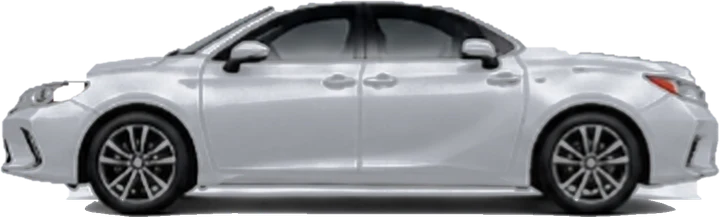
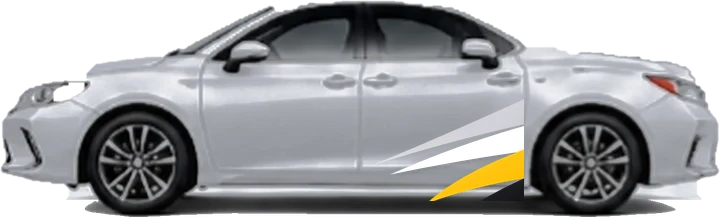
Машина сүрөттөрү: арткы эшикте бренд полосалары (11 түс)
Claude-Session: https://claude.ai/code/session_01QqaFd74dCabiCok1GW4n4v

Changed region(s): [[0.55, 0.47, 0.7333, 0.9401], [0.5194, 0.7189, 0.55, 0.7465]]

diff --git a/static/sw.js b/static/sw.js
@@ -1,6 +1,6 @@
 // Такси ТАП! — service worker: тиркеме катары орнотуу жана интернет жок болсо жөнөкөй бет.
 // API'лер жана карта кэштелбейт — абал ар дайым жаңы болушу керек.
-const SHELL = "taxitap-v104";
+const SHELL = "taxitap-v105";
 const PAGES = ["/", "/driver", "/static/area.js", "/static/manifest.json", "/static/icon-192.png", "/static/logo.png", "/static/n_home.webp?v=9", "/static/n_trips.webp?v=9", "/static/n_go.webp?v=9", "/static/n_help.webp?v=9", "/static/n_cab.webp?v=9", "/static/n_earn.webp?v=9", "/static/r_bag.webp?v=9", "/static/r_car.webp?v=9", "/static/cb_tl.webp?v=9", "/static/cb_tr.webp?v=9", "/static/qr.js", "/static/qrshare.js", "/static/c_car.webp?v=9",
   "/static/h_taxi.webp?v=9", "/static/h_box.webp?v=9", "/static/h_girl.webp?v=9", "/static/h_map.webp?v=9"];
 self.addEventListener("install", e => e.waitUntil(caches.open(SHELL).then(c => c.addAll(PAGES)).then(() => self.skipWaiting())));

diff --git a/static/area.js b/static/area.js
@@ -63,7 +63,7 @@ const CAR_IMG = {"Ак":"ak", "Кара":"kara", "Күмүш":"kumush", "Боз"
   "Жашыл":"jashyl", "Сары":"sary", "Күрөң":"kuron", "Кызгылт":"kyzgylt"};
 function carImg(color) {
   const c = (color || "").trim(), k = CAR_IMG[c] || Object.entries(CAR_IMG).find(([n]) => c.toLowerCase().startsWith(n.toLowerCase().slice(0, 4)))?.[1] || "ak";
-  return `/static/car_${k}.webp?v=1`;
+  return `/static/car_${k}.webp?v=2`;
 }
 // KG номер рамкасы: «04KG338APG» → [04 | 🇰🇬KG | 338 APG]
 function kgPlate(p) {

diff --git a/tests/sim_peers.py b/tests/sim_peers.py
@@ -53,7 +53,9 @@ def frame(dp, title, sub, wait=1200):
     c = Image.new("RGB", (W + 40, 931 + 150), "#fafafa"); d = ImageDraw.Draw(c)
     d.rounded_rectangle([20, 18, 76, 74], 16, fill="#ffc61a")
     d.text((48, 46), str(N[0] + 1), font=F_B, fill="#16161a", anchor="mm")
-    d.text((92, 16), title, font=F_S, fill="#1b1b20"); d.text((92, 52), sub, font=F_M, fill="#5f5f6a")
+    import re as _re
+    cl = lambda x: _re.sub(r"[^\w\s«»—,.!?:/()+~·-]", "", x).strip()
+    d.text((92, 16), cl(title), font=F_S, fill="#1b1b20"); d.text((92, 52), cl(sub), font=F_M, fill="#5f5f6a")
     m = Image.new("L", im.size, 0); ImageDraw.Draw(m).rounded_rectangle([0, 0, W, 931], 28, fill=255)
     c.paste(im, (20, 120), m); N[0] += 1
     c.save(os.path.join(OUT, "%02d.png" % N[0])); print(N[0], title)
@@ -69,12 +71,29 @@ try:
         dv.goto(URL + "/driver"); dv.fill("#nm", "Бакыт"); dv.fill("#ph", "0700 555 001"); dv.check("#agree"); dv.click("#go")
         dv.wait_for_timeout(1500); core.driver_location(DRV, *DSTART, live_period=3600)
         dv.evaluate("refresh().then(loadPeers)"); dv.wait_for_timeout(1200)
-        frame(dv, "Линияда — жакын таксилер картада", "Сары — бош, ак — заказда · 3 км ичинде", 800)
+        frame(dv, "Айдоочу линияга чыкты", "Жакын 3 км ичиндеги таксилер картада көрүнөт", 800)
         dv.evaluate("SHEET.collapse && SHEET.collapse()")
-        frame(dv, "Панелди жапканда — карта толук", "🚕 6 · 4 бош — жакын жерде канча такси бар", 900)
+        frame(dv, "Сары — бош, ак — заказда", "Аты, номери көрүнбөйт · болжолдуу орун (~100 м)", 900)
+        uids = [core.phone_uid("07005550%02d" % (10 + i)) for i in range(len(PEERS))]
+        steps = [(0.0010, 0.0012), (0.0008, -0.0010), (-0.0011, 0.0009), (0.0012, 0.0004), (-0.0006, -0.0012), (0.0009, -0.0007)]
+        for k in range(1, 5):
+            for i, (la, lo, busy) in enumerate(PEERS[:6]):
+                dla, dlo = steps[i]
+                core.driver_location(uids[i], la + dla * k, lo + dlo * k, live_period=3600)
+            if k == 2:   # бир бош такси заказ алды
+                core.set_driver(uids[0], busy_ride=1500)
+            if k == 3:   # жаңы такси линияга чыкты
+                core.driver_location(uids[6], DSTART[0] - 0.003, DSTART[1] + 0.002, live_period=3600)
+            dv.evaluate("loadPeers()")
+            cap = {1: ("Таксилер кыймылдап жатат", "Орду ар 15 секундда жаңыланат"),
+                   2: ("Бир такси заказ алды — ак болуп калды", "🚕 баскычындагы сан да өзгөрөт: 6 · 3 бош"),
+                   3: ("Жаңы такси линияга чыкты", "Эми 7 такси · 4 бош"),
+                   4: ("Кайсы жерде такси аз — ошол жакка барыңыз", "Заказды тезирээк аласыз")}[k]
+            frame(dv, cap[0], cap[1], 1200)
         dv.click("#peerBtn")
-        frame(dv, "🚕 баскычы — жашыруу / көрсөтүү", "Картада орун аз болсо өчүрүп койсо болот")
+        frame(dv, "🚕 баскычы — жашыруу", "Карта таза болот · кайра басса — көрүнөт", 1000)
         dv.click("#peerBtn"); dv.wait_for_timeout(600)
+        frame(dv, "Кайра көрсөтүү", "Тандоо телефондо сакталып калат", 900)
         br.close()
 finally:
     srv.terminate()
